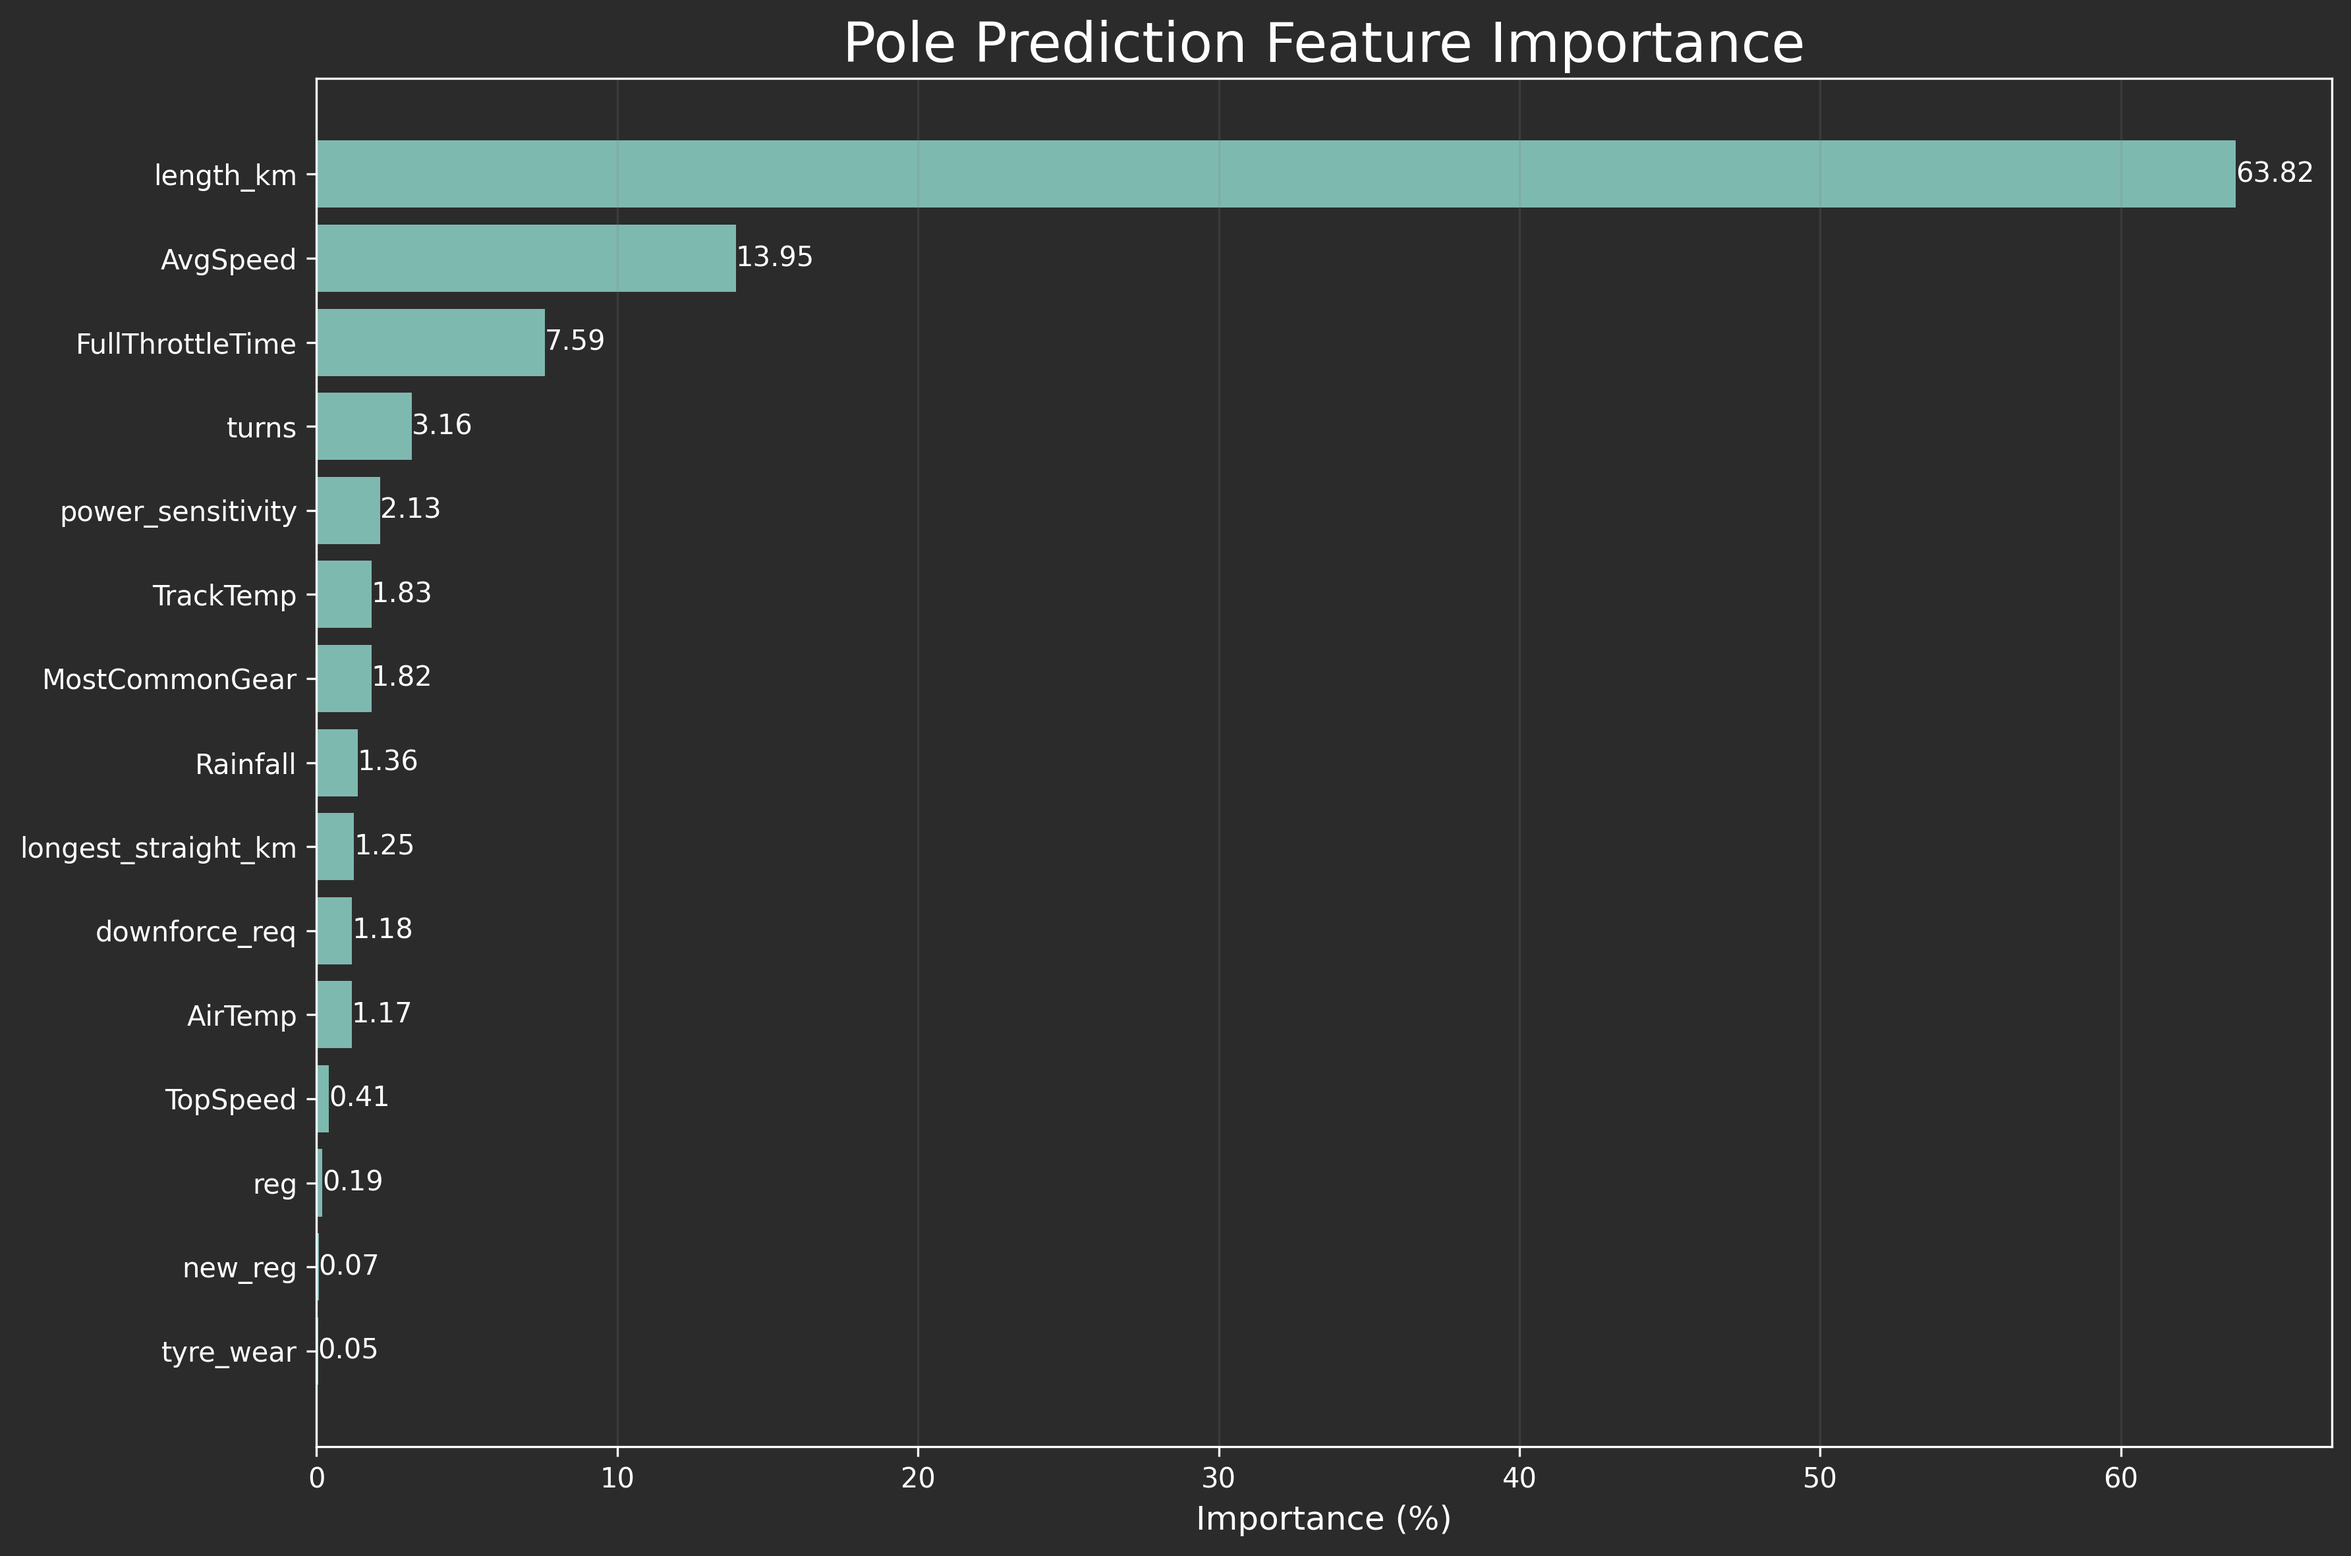
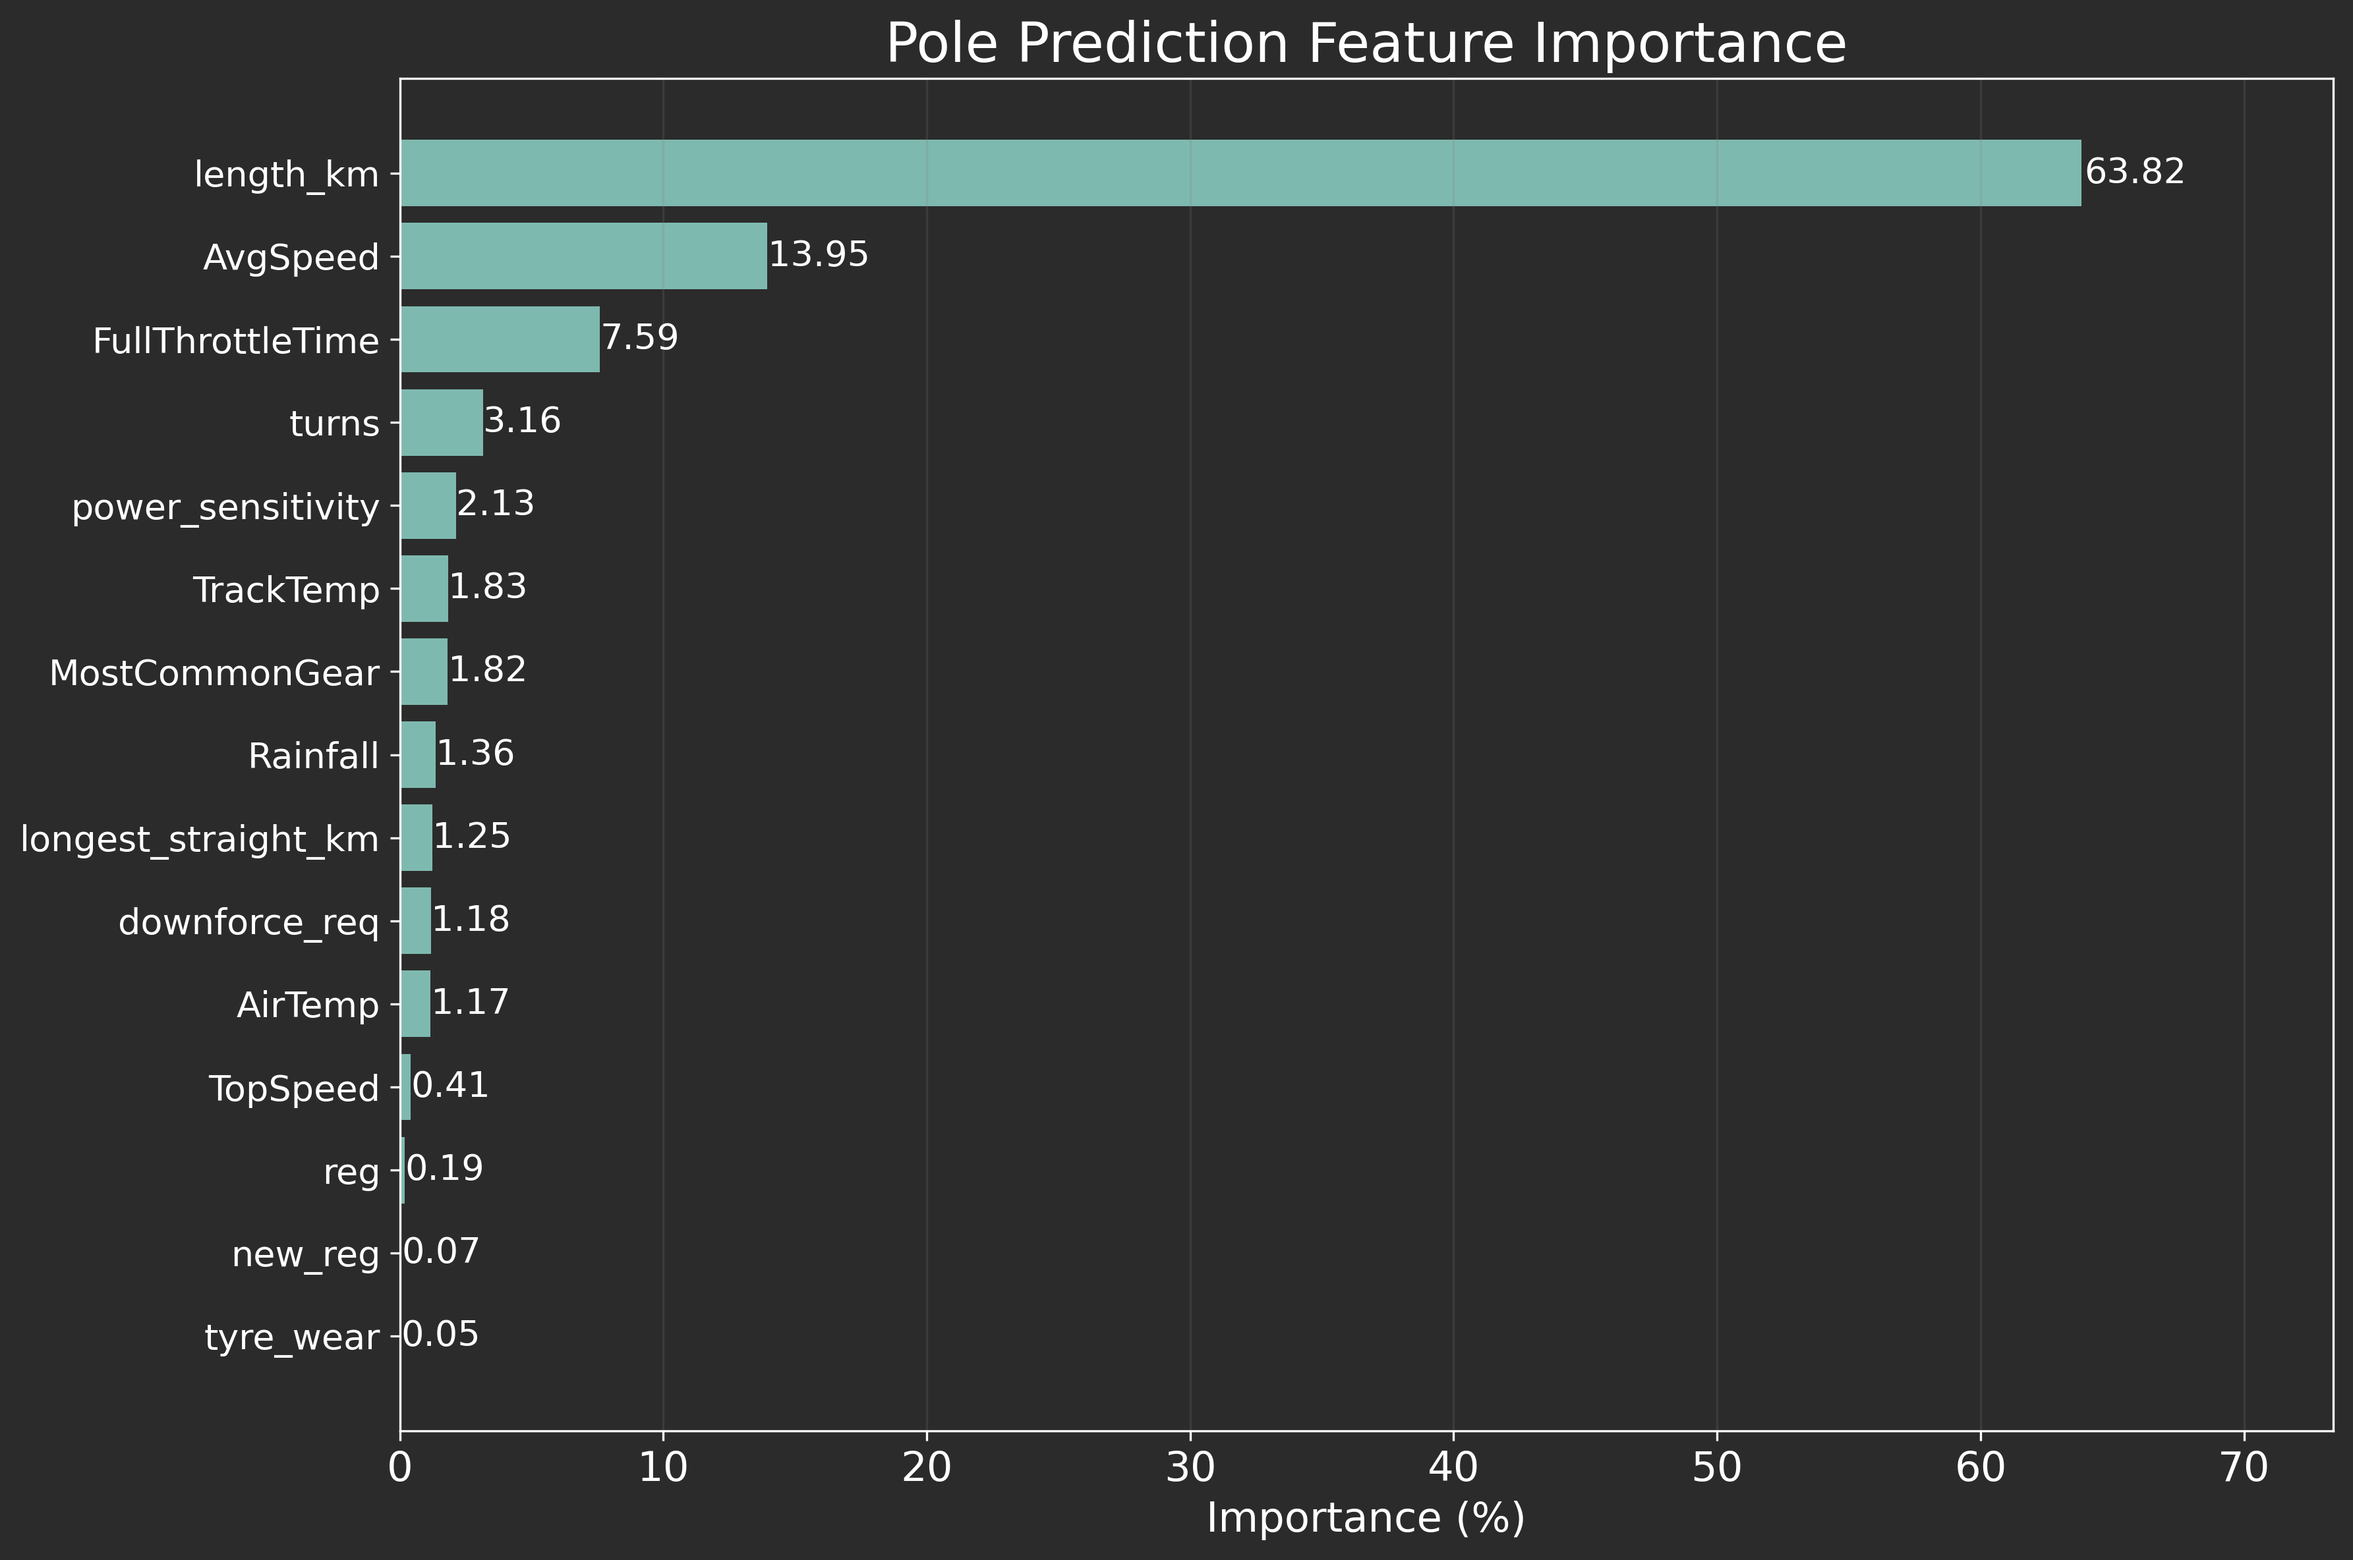
Plotting fixes

diff --git a/plotting.py b/plotting.py
@@ -77,8 +77,8 @@ table = ax1.table(
     colLabels=[
         "Race",
         "2025 Pole Time",
-        "Predicted 2026 Pole Time",
-        "Actual 2026 Pole Time"
+        "2026 Predicted Time",
+        "2026 Actual Time"
     ],
     loc="center",
     cellLoc="center",
@@ -87,7 +87,7 @@ table = ax1.table(
 
 # Larger font for 12x8 figure
 table.auto_set_font_size(False)
-table.set_fontsize(13)
+table.set_fontsize(16)
 
 # Increase row height
 table.scale(1, 2.5)
@@ -106,7 +106,7 @@ for (row, col), cell in table.get_celld().items():
     if row == 0:
         cell.set_facecolor("#1a1a1a")
         cell.get_text().set_weight("bold")
-        cell.get_text().set_fontsize(12)
+        cell.get_text().set_fontsize(14)
 
 for (row, col), cell in table.get_celld().items():
 
@@ -124,7 +124,7 @@ for (row, col), cell in table.get_celld().items():
 
         cell.set_facecolor(header_colors[col])
         cell.get_text().set_weight("bold")
-        cell.get_text().set_fontsize(12)
+        cell.get_text().set_fontsize(14)
 
     else:
         cell.set_facecolor("#2b2b2b")
@@ -151,7 +151,7 @@ ax1.set_title(
 fig1.text(
     0.98,
     0.02,
-    "* All 2026 pole times are predicted in dry conditions",
+    "* All 2026 predictions are in dry conditions",
     ha="right",
     fontsize=10,
     color="white"
@@ -201,6 +201,7 @@ ax2.scatter(
     poleset2026['PoleTime'],
     marker='o',
     color='blue',
+    edgecolor='white',
     alpha=1,
     s=80,
     label='2026 Qualifying'
@@ -209,24 +210,27 @@ ax2.scatter(
 
 ax2.set_title(
     "Pole Laptime Predictor (2025 vs 2026 vs Predicted)",
-    fontsize=20,
+    fontsize=22,
     color="white"
 )
 
 ax2.set_ylabel(
     "Pole Time (s)",
-    fontsize=12,
+    fontsize=16,
     color="white"
 )
 
+race_labels = [race.replace("Grand Prix", "GP") for race in poletimes["Race"]]
 ax2.set_xticks(poletimes['Race'])
 ax2.set_xticklabels(
-    poletimes['Race'],
+    race_labels,
     rotation=45,
+    fontsize=14,
     ha='right',
     color="white"
 )
 
+ax2.tick_params(axis='y', labelsize=14, colors='white')
 ax2.tick_params(colors="white")
 
 ax2.grid(True, alpha=0.2, color="gray")
@@ -236,7 +240,8 @@ ax2.legend(
     facecolor="#1a1a1a",
     edgecolor="#444444",
     labelcolor="white",
-    framealpha = 0.2
+    framealpha = 0.2,
+    fontsize=12.5
 )
 
 plt.tight_layout()
@@ -280,11 +285,12 @@ ax3.set_title(
 
 ax3.set_xlabel(
     "Importance (%)",
-    fontsize=12,
+    fontsize=15,
     color="white"
 )
 
-ax3.tick_params(colors="white")
+ax3.tick_params(axis='y', labelsize=13, colors='white')
+ax3.tick_params(axis='x', labelsize=15, colors='white')
 
 ax3.grid(
     axis="x",
@@ -295,14 +301,16 @@ ax3.grid(
 # Add importance values beside bars
 for i, value in enumerate(top_features["Importance"]):
     ax3.text(
-        value,
+        value*1.002,
         i,
         f"{value:.2f}",
         va="center",
         color="white",
-        fontsize=10
+        fontsize=13
     )
 
+max_importance = top_features["Importance"].max()
+ax3.set_xlim(0, max_importance *1.15)
 
 plt.tight_layout()
 
